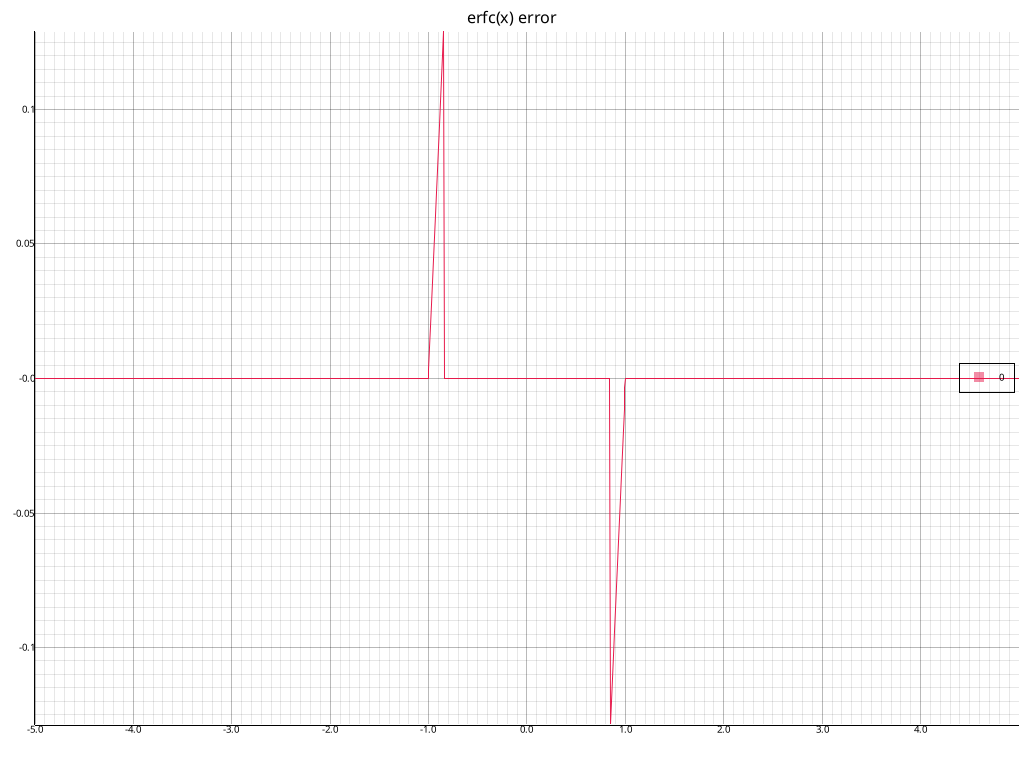
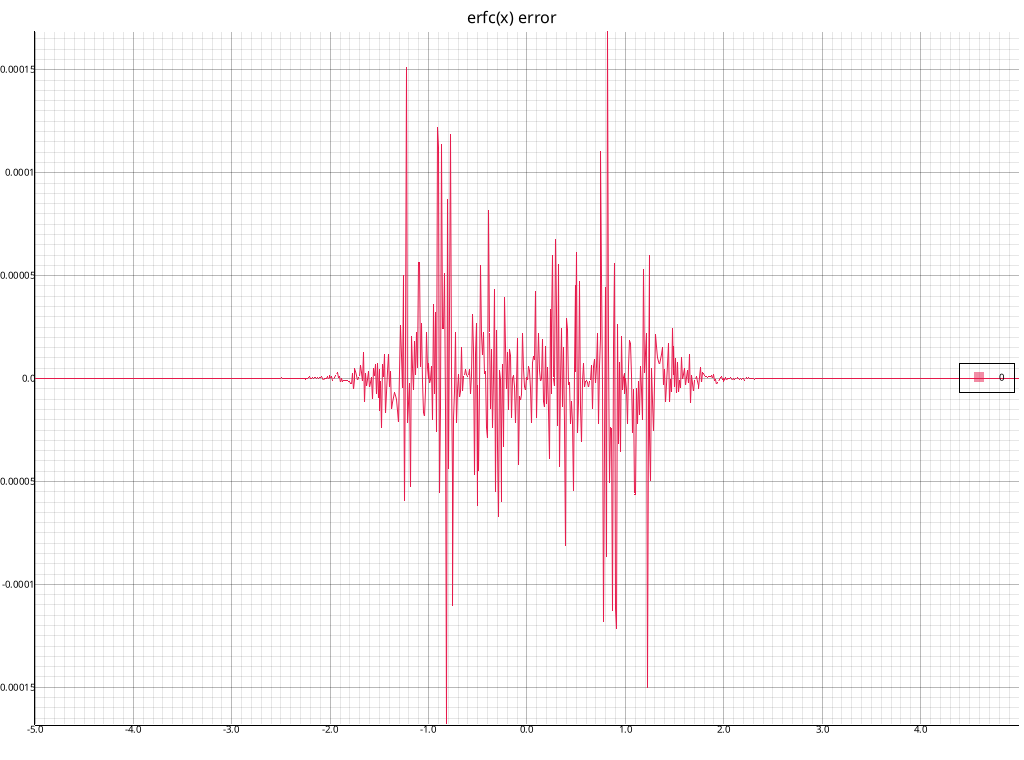
Fix erf

Changed region(s): [[0.0, 0.0303, 1.0, 0.9684]]

diff --git a/src/fp/mod.rs b/src/fp/mod.rs
@@ -5994,7 +5994,6 @@ where
             1.36370839120290507362e-02, /* 0x3F8BEDC2, 0x6B51DD1C */
             1.19844998467991074170e-02 /* 0x3F888B54, 0x5735151D */
         ];
-
         let one = Self::one();
         let xabs = self.abs();
         let (s, b) = if xabs >= one
@@ -6007,24 +6006,29 @@ where
         };
         let mut r = false;
         let mut p = util::polynomial(&PA, s, SIGN_BIT, b);
+        if !SIGN_BIT && p.is_nan()
+        {
+            p = util::polynomial(&PA.map(Neg::neg), s, SIGN_BIT, b);
+            r = !r;
+        }
         let q = if b
         {
-            let mut q = util::polynomial(&QA, s, SIGN_BIT, b);
-            if q.is_nan()
+            let mut q = s*util::polynomial(&QA, s, SIGN_BIT, b);
+            if !SIGN_BIT && q.is_nan()
             {
-                q = util::polynomial(&QA.map(Neg::neg), s, SIGN_BIT, b);
-                one + s*q
+                q = s*util::polynomial(&QA.map(Neg::neg), s, SIGN_BIT, b);
+                one + q
             }
             else
             {
-                if one >= q
+                if SIGN_BIT || one >= q
                 {
-                    one - s*q
+                    one - q
                 }
                 else
                 {
                     r = !r;
-                    s*q - one
+                    q - one
                 }
             }
         }
@@ -6049,11 +6053,6 @@ where
                 one + q
             }
         };
-        if !SIGN_BIT && p.is_nan()
-        {
-            p = util::polynomial(&PA.map(Neg::neg), s, SIGN_BIT, b);
-            r = !r;
-        }
     
         if r
         {
@@ -6323,7 +6322,7 @@ where
             -3.96022827877536812320e-06 /* 0xBED09C43, 0x42A26120 */
         ];
 
-        let sign = self.sign_bit();
+        let sign = self.is_sign_negative();
         if self.is_nan()
         {
             return self
@@ -6331,7 +6330,7 @@ where
         let two = Self::from_uint(2u8);
         if self.is_infinite()
         {
-            return if !sign.is_zero() {two} else {Self::zero()}
+            return if sign {two} else {Self::zero()}
         }
         let xabs = self.abs();
         let one = Self::one();
@@ -6359,7 +6358,7 @@ where
             }
             let y = r / s;
             let half = Self::from(0.5);
-            if !sign.is_zero() || xabs < Self::from(1.0/4.0) || (!SIGN_BIT && self < half)
+            if sign || xabs < Self::from(1.0/4.0) || (!SIGN_BIT && self < half)
             {
                 /* x < 1/4 */
                 if b
@@ -6385,7 +6384,7 @@ where
         if xabs < Self::from_uint(28u8)
         {
             /* 0.84375 <= |x| < 28 */
-            if !sign.is_zero()
+            if sign
             {
                 return two - self.erfc2();
             }
@@ -6394,7 +6393,7 @@ where
         }
 
         let x1p_1022 = Self::from(f64::from_bits(0x0010000000000000));
-        if !sign.is_zero()
+        if sign
         {
             two - x1p_1022
         }
@@ -8245,7 +8244,7 @@ mod test
 {
     #![allow(unused)]
 
-    use crate::{ieee754::{FpDouble, FpHalf}, Fp};
+    use crate::{ieee754::{FpDouble, FpHalf}, tests::F, Fp};
 
     #[test]
     fn test_gamma()
@@ -8308,6 +8307,16 @@ mod test
     fn test_erf()
     {
         crate::tests::test_op1("erf", libm::erff, Fp::erf, Some(0.1), Some(-(crate::tests::F::SIGN_SIZE as f32)*5.0..5.0))
+    }
+
+    #[test]
+    fn test_erfc_once()
+    {
+        let x = F::from(0.9);
+
+        let y = x.erfc();
+
+        println!("{y}")
     }
     
     #[test]

diff --git a/src/util.rs b/src/util.rs
@@ -55,11 +55,15 @@ where
 }
 
 #[inline]
-pub fn polynomial<T, F, const N: usize>(p: &[T; N], z: F, may_be_neg: bool, z_neg: bool) -> F
+pub fn polynomial<T, F, const N: usize>(p: &[T; N], mut z: F, may_be_neg: bool, z_neg: bool) -> F
 where
     T: Float,
     F: Float + From<T> + AddAssign + MulAssign
 {
+    if z_neg && may_be_neg
+    {
+        z = -z;
+    }
     let mut y = F::zero();
     let mut zn = F::one();
     for n in 0..N
